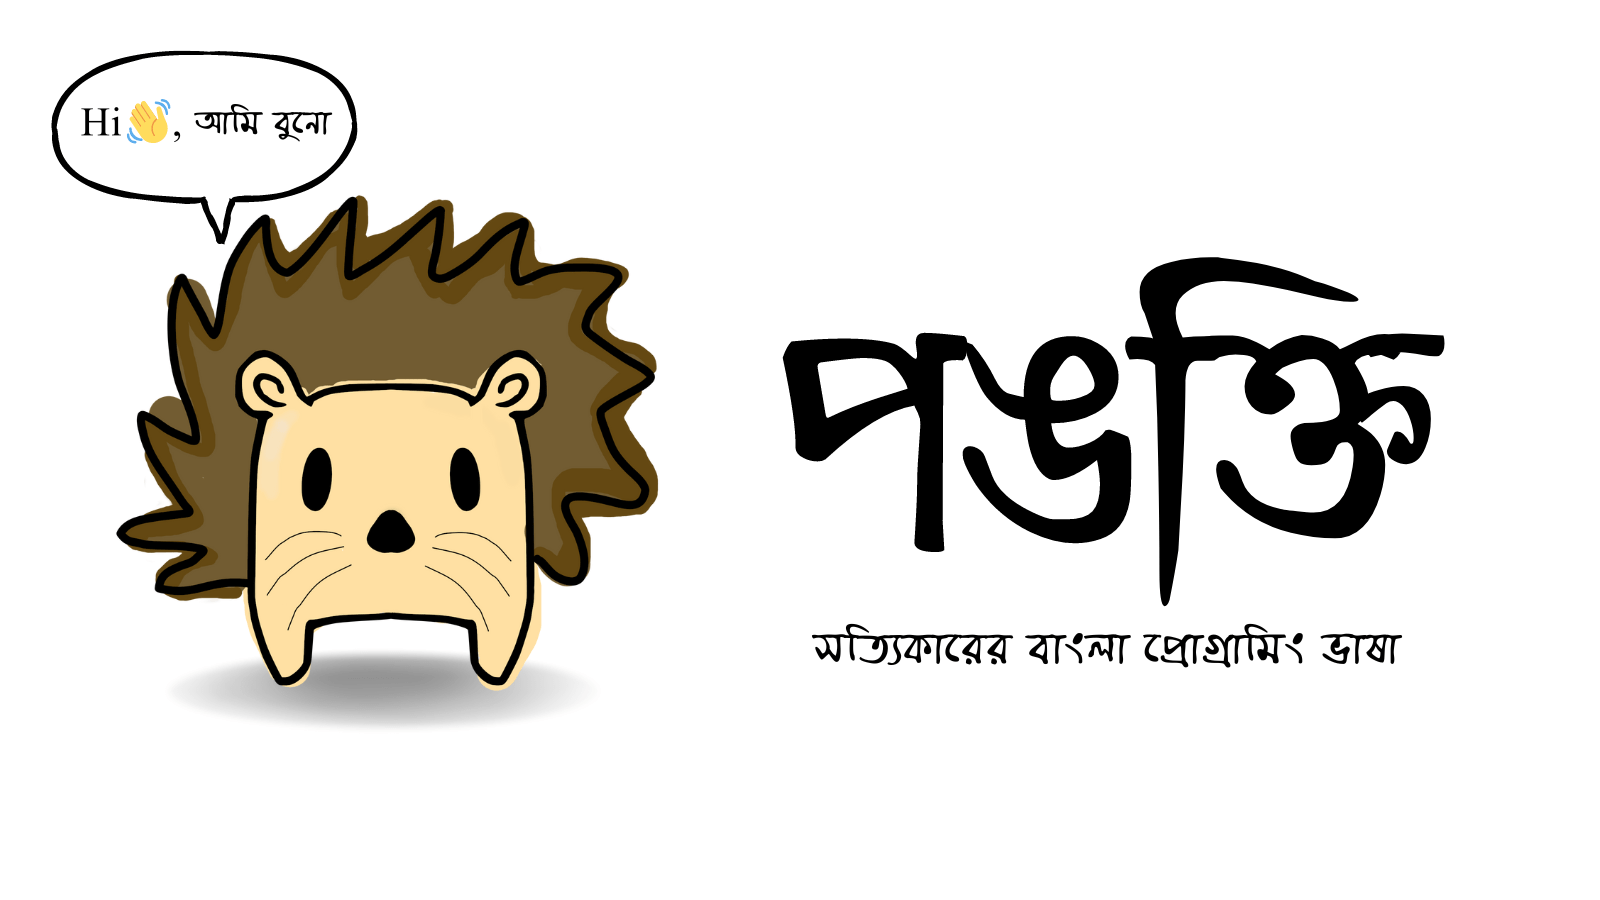
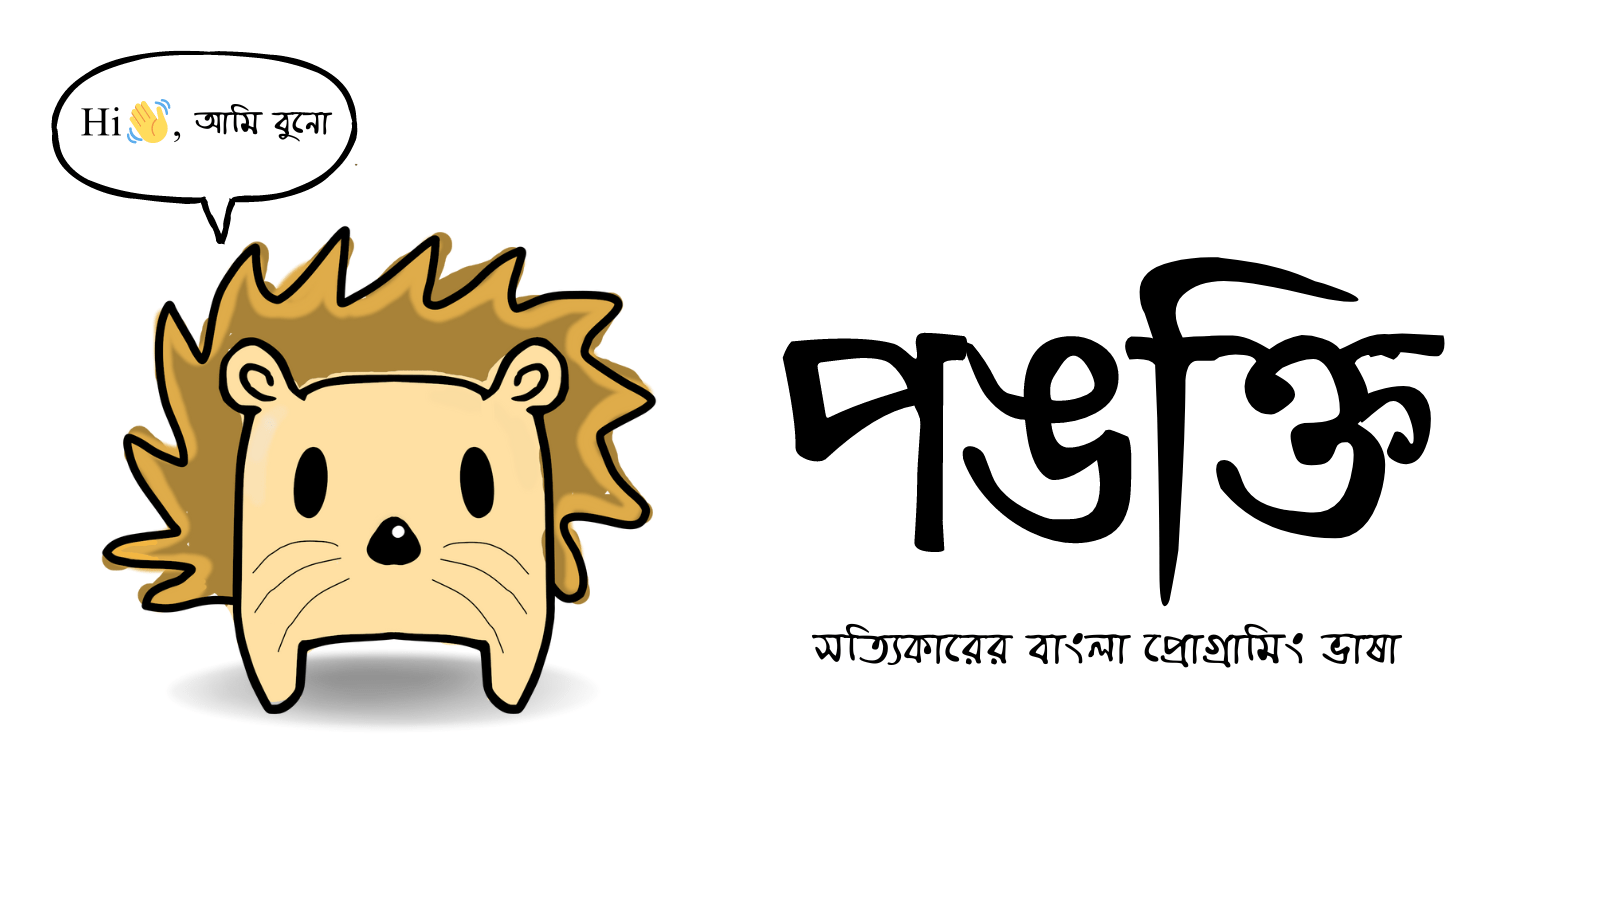
updated mascot images; added copyright notice for the images

Changed region(s): [[0.0625, 0.2178, 0.4375, 0.8089]]

diff --git a/README.md b/README.md
@@ -13,3 +13,5 @@ programs.
 > Pre-alpha. Under heavy development
 
 LICENSE : GPL v3
+Buno the Hedgehog, and all artworks are copyrighted to Me, Palash Bauri, all 
+rights are reserved for the Buno the Hedgehog images.
